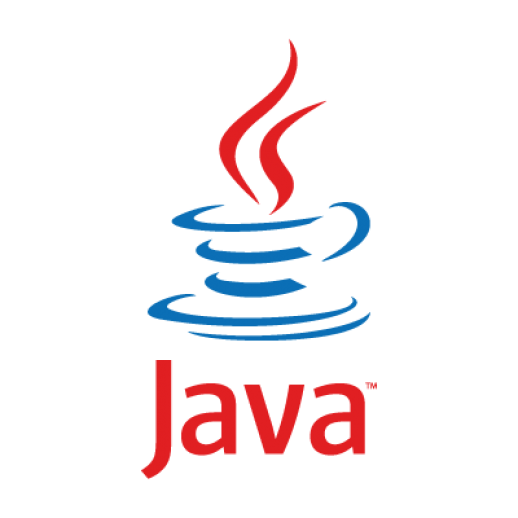
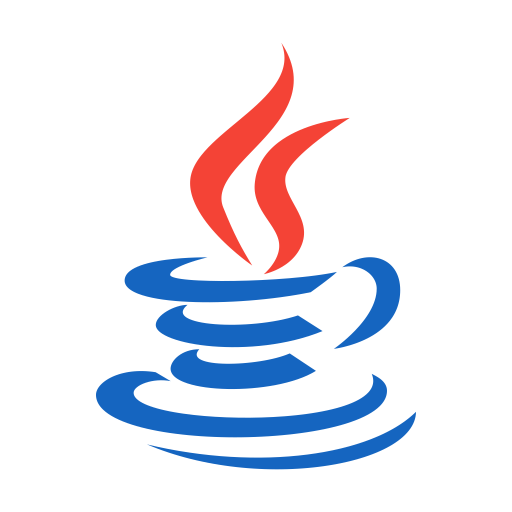
Css changes and image changes

Changed region(s): [[0.1875, 0.0625, 0.8125, 0.9375]]

diff --git a/Home.html b/Home.html
@@ -27,21 +27,25 @@
 				<p>Software & Web Developer</p>
 				<p>3rd Year at York University doing my Honours BA in Information Technology</p>
 			</div>
-			<div class="Containertype3">
+			<div class="Containertype1">
 				<h1> My Programming & Script Languages </h1>
 			</div>
 			<div class="rowContainer">
 					<div class="columns">
+							<p> Java </p>
 							<img src="Images/java.png" alt="Java"  class="image2">
 					</div>
 					<div class="columns">
-							<img src="Images/pngegg.png" alt="HTML"  class="image2">
+							<p> HTML </p>
+							<img src="Images/html.png" alt="HTML"  class="image2">
 					</div>
 					<div class="columns">
-							<img src="Images/css2.png" alt="CSS" class="image2">
+							<p> CSS </p>
+							<img src="Images/css.png" alt="CSS" class="image2">
 					</div>
 					<div class="columns">
-							<img src="Images/javascript.png" alt="JavaScript" class="image2">
+							<p> JavaScript </p>
+							<img src="Images/js2.png" alt="JavaScript" class="image2">
 					</div>
 			</div>
 				<div class="bottomContainer">

diff --git a/Css/default.css b/Css/default.css
@@ -82,14 +82,15 @@ a:link{
 }
 
 .Containertype2{
-  padding-top: 5px;
-  padding-bottom: 100px;
+  padding-top: 25px;
+  padding-bottom: 75px;
   height: 100px;
   max-width: 100%;
   background-color: #212121;
 }
 
 .Containertype3{
+  padding-top: 50px;
   padding-bottom: 50px;
   max-width: 100%;
   background-color:#121212;
@@ -122,7 +123,6 @@ a:link{
   width: auto;
   height: 100px;
   max-width: 100%;
-  border: 5px solid black;
 }
 
 .textFont{
@@ -150,9 +150,10 @@ a:link{
     float: left;
     padding: 5px;
   }
+
   .rowContainer{
     padding-right: 50px;
-    padding-bottom: 525px;
+    padding-bottom: 625px;
     padding-left: 50px;
     max-width: 100%;
     background-color:#121212;
@@ -175,8 +176,8 @@ a:link{
   }
 
   .Containertype3{
-    padding-top: 5px;
-    padding-bottom: 175px;
+    padding-top: 25px;
+    padding-bottom: 225px;
     height: 100px;
     max-width: 100%;
   }

diff --git a/Projects Page Personal Website.html b/Projects Page Personal Website.html
@@ -25,7 +25,7 @@
 			<div class="Containertype1">
 				<h1></h1>
 				<p></p>
-				<p>  </p>
+				<p></p>
 			</div>
 			<div class="rowContainer">
 					<div class="columns">
